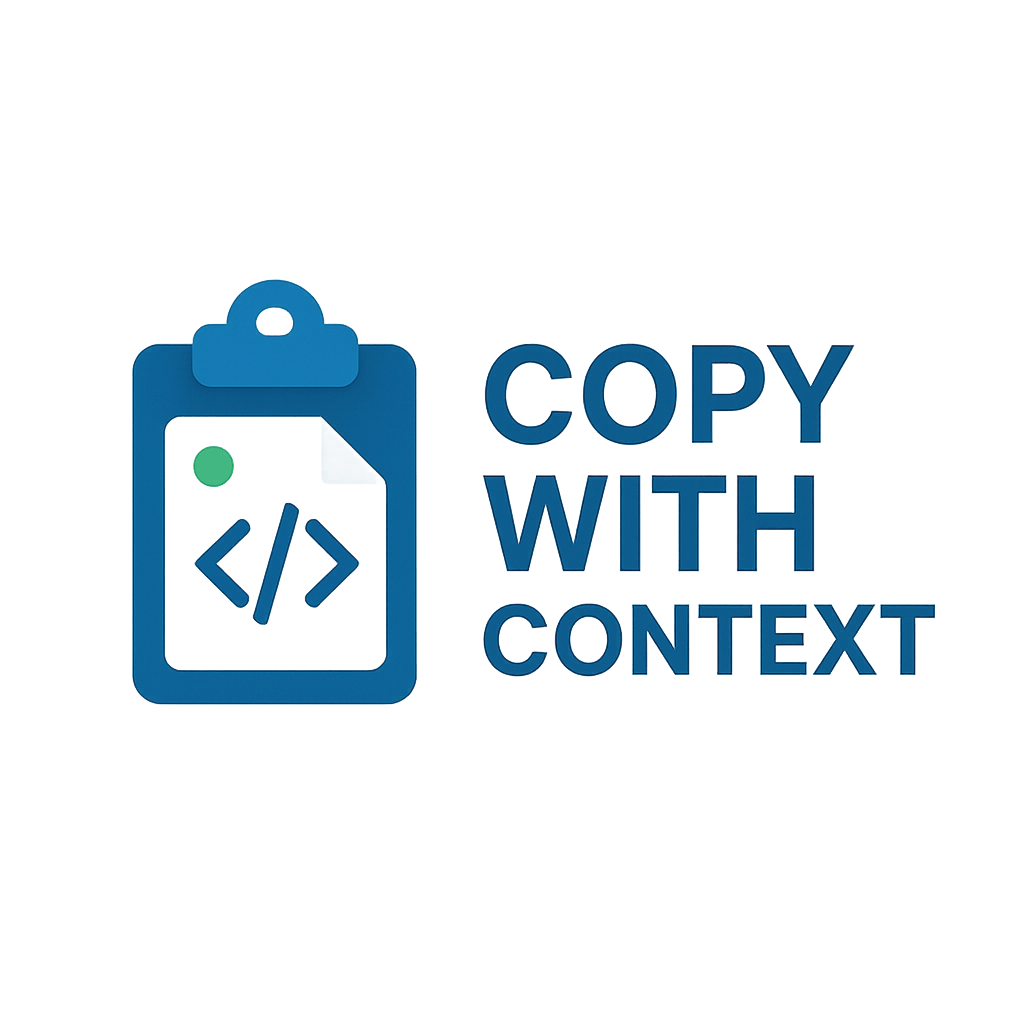
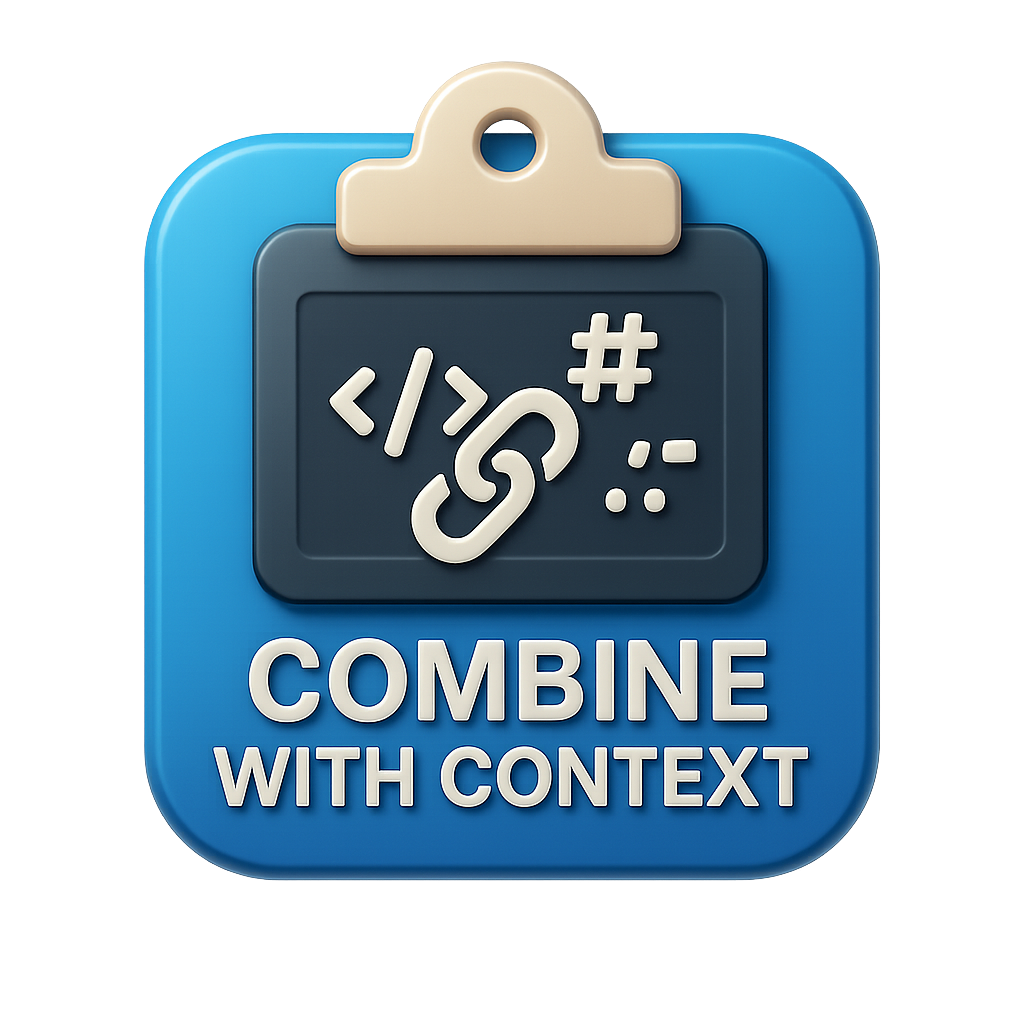
chore: bump version to 2.4.2 and update README for enhanced clarity and interactivity

diff --git a/README.md b/README.md
@@ -1,4 +1,23 @@
-# Combine with Context
+# 🚀 Combine with Context
+
+> A robust, feature-rich way to export code context to a markdown file (`paste.md`) or zip file (`context.zip`) for AI/LLM workflows, with advanced filtering, .gitignore support, history/undo, file tree/analysis, content compression, symlink handling, and full customization.
+
+---
+
+## 📑 Table of Contents
+
+- [✨ Features](#-features)
+- [🛠 Usage](#-usage)
+- [⚙ Configuration (settings)](#-configuration-settings)
+- [⌨ Keybindings](#-keybindings)
+- [🐞 Troubleshooting](#-troubleshooting)
+- [🤝 Contributing](#-contributing)
+- [📜 License](#-license)
+
+---
+
+<details open>
+<summary><h2>✨ Features</h2></summary>
 
 - Instantly copy selected code and context to the clipboard for quick sharing or use.
 - Save selections directly as Markdown files for documentation or collaboration.
@@ -8,13 +27,8 @@
 - Handles large projects efficiently with progress notifications and error handling.
 - Designed for reliability, traceability, and ease of use in production environments.
 
-
-A robust, feature-rich way to export code context to a markdown file (`paste.md`) or zip file `context.zip` (for agent mode) for AI/LLM workflows, with advanced filtering, .gitignore support, history/undo, file tree/analysis, content compression, symlink handling, and full customization.
-
-## Features
-
 - **Multi-select**: Select any files and/or folders in VS Code Explorer.
-- **Re-save/Update last output**: Once you've created a paste file or ZIP archive, you can regenerate it later using the same selection without reselecting files.  A single **Update last output** command determines which format to rebuild based on your most recent save.
+- **Re-save/Update last output**: Once you've created a paste file or ZIP archive, you can regenerate it later using the same selection without reselection files.
 - **LLM-friendly Markdown**: Each file block is clearly marked (with path, code block, timestamp); optional file tree and type-wise analysis.
 - **Smart filtering**: Excludes binary files, images, large/empty files, and recognizes `.gitignore`.
 - **Content compression**: Minifies code (trim whitespace, remove comments for JS/TS, Python, CSS) when enabled.
@@ -26,55 +40,84 @@ A robust, feature-rich way to export code context to a markdown file (`paste.md`
 - **Output channel logging**: For debugging and traceability.
 - **Production-ready**: Handles errors, permissions, and race conditions robustly.
 
-## Usage
+</details>
+
+---
+
+<details open>
+<summary><h2>🛠 Usage</h2></summary>
 
 1. **Select files/folders** in the VS Code Explorer.
-2. **Right‑click** and choose **Save As → Save to paste file** or **Save As → Save selection as ZIP**.  The selected files will be aggregated and saved to your configured Markdown (`paste.md` by default) or ZIP (`context.zip` by default) file.
+2. **Right‑click** and choose **Save As → Save to paste file** or **Save As → Save selection as ZIP**.
 3. The output will appear in the designated file (or your chosen name/folder).
-4. **Undo**: Use the **CC: Undo last save** command to restore the most recent backup of your paste or ZIP file.
+4. **Undo**: Use the **CC: Undo last save** command to restore the most recent backup.
 5. **Clipboard**: Use the **CC: Copy to Clipboard** command/menu to copy the formatted context directly.
-6. **Update**: After you've saved a paste or ZIP once, you can regenerate the output with the latest contents of the same files/folders. Right‑click and choose **CC: Update last output**; the extension will determine which format to regenerate based on your most recent save.
+6. **Update**: After you've saved once, regenerate with **CC: Update last output**.
 
-## Configuration (settings)
+</details>
+
+---
+
+<details open>
+<summary><h2>⚙ Configuration (settings)</h2></summary>
 
 Set these in your workspace or global settings:
 
-| Setting                         | Default                 | Description                                 |
-|----------------------------------|-------------------------|---------------------------------------------|
-| outputFileName                   | "paste.md"              | Name/path for output file                   |
-| appendMode                       | false                   | Append or overwrite                         |
-| includeTimestamp                 | true                    | Add timestamp to each file block            |
-| filteredExtensions               | `.png`, `.exe` etc.     | Array of extensions to skip                 |
-| maxFileSize                      | 5242880 (5MB)           | Per-file max size                           |
-| outputSubfolder                  | "" (root)               | Subfolder for output (optional)             |
-| openAfterSave                    | true                    | Open file after writing                     |
-| separator                        | "\n\n"                  | Markdown separator between file blocks      |
-| useGitignore                     | true                    | Use `.gitignore` for filtering              |
-| historyFolder                    | `.llm-context-history`  | History folder for backups                  |
-| includeFileTree                  | true                    | Include file tree in output                 |
-| includeFileAnalysis              | true                    | Include file count/type analysis            |
-| symlinkHandling                  | "skip"                  | Handle symlinks: "skip" or "resolve"        |
-| compressContent                  | false                   | Minify content and remove comments          |
+| Setting             | Default                | Description                            |
+| ------------------- | ---------------------- | -------------------------------------- |
+| outputFileName      | "paste.md"             | Name/path for output file              |
+| appendMode          | false                  | Append or overwrite                    |
+| includeTimestamp    | true                   | Add timestamp to each file block       |
+| filteredExtensions  | `.png`, `.exe` etc.    | Array of extensions to skip            |
+| maxFileSize         | 5242880 (5MB)          | Per-file max size                      |
+| outputSubfolder     | "" (root)              | Subfolder for output (optional)        |
+| openAfterSave       | true                   | Open file after writing                |
+| separator           | "\n\n"                 | Markdown separator between file blocks |
+| useGitignore        | true                   | Use `.gitignore` for filtering         |
+| historyFolder       | `.llm-context-history` | History folder for backups             |
+| includeFileTree     | true                   | Include file tree in output            |
+| includeFileAnalysis | true                   | Include file count/type analysis       |
+| symlinkHandling     | "skip"                 | Handle symlinks: "skip" or "resolve"   |
+| compressContent     | false                  | Minify content and remove comments     |
 
-## Keybindings
+</details>
+
+---
+
+<details open>
+<summary><h2>⌨ Keybindings</h2></summary>
 
 - Save to paste.md: `Ctrl+Alt+Shift+S`
 - Copy to clipboard: `Ctrl+Alt+Shift+C`
 - Save to context.zip: `Ctrl+Alt+Shift+Z`
 - Undo last save: `Ctrl+Alt+Shift+U`
 
-## Troubleshooting
+</details>
+
+---
+
+<details open>
+<summary><h2>🐞 Troubleshooting</h2></summary>
 
 - If no files appear: Check filteredExtensions, .gitignore, file size limits, or empty files.
 - If output isn't updated: Confirm permissions and path.
-- For debugging: Run the "CC: Show Log" command to see output logs.
+- For debugging: Run the **"CC: Show Log"** command to see output logs.
 
-## Contributing
+</details>
+
+---
+
+<details open>
+<summary><h2>🤝 Contributing</h2></summary>
 
 1. Fork + branch.
 2. Run/test via `F5` in VS Code.
 3. PRs welcome; see file header comments and `outputChannel` logs for tracing/debug.
 
+</details>
+
 ---
 
-MIT License  
+## 📜 License
+
+[MIT License](https://github.com/mohesu/combine-with-context/blob/main/LICENSE.md)

diff --git a/CHANGELOG.md b/CHANGELOG.md
@@ -2,22 +2,36 @@
 
 All notable changes to the "combine-with-context" extension will be documented in this file.
 
+## [2.4.2] - 08-26-2025
+
+### Changed
+
+- **README.md**: Updated the README.md file to be more interactive and scannable.
+- **package.json**: Updated the package.json file to include the new keywords.
+- **CHANGELOG.md**: Updated the CHANGELOG.md file to include the new changes.
+
+## [2.4.1] - 08-26-2025
+
+### Changed
+
+- refactor: update command labels and keybindings for consistency in package.json
+
 ## [2.4.0] - 08-26-2025
 
 ### Changed
 
-- **Submenu for saving outputs**: Added a new **Save As** submenu in the Explorer context menu.  You can now choose **Save to paste file** or **Save selection as ZIP** from a single entry.
-- **Unified update command**: Consolidated the update actions into a single `copyWithContext.updateLast` command (“CC: Update last output”).  This regenerates whichever output (paste or ZIP) you saved most recently.
+- **Submenu for saving outputs**: Added a new **Save As** submenu in the Explorer context menu. You can now choose **Save to paste file** or **Save selection as ZIP** from a single entry.
+- **Unified update command**: Consolidated the update actions into a single `copyWithContext.updateLast` command (“CC: Update last output”). This regenerates whichever output (paste or ZIP) you saved most recently.
 - **Undo improvements**: Undo now restores either the paste file or ZIP archive depending on which one you saved last, rather than only handling Markdown files.
-- **Combine branding**: Renamed all user‑facing messages and the output channel to **Combine with Context** for consistency.  The configuration title in `package.json` was updated accordingly.
+- **Combine branding**: Renamed all user‑facing messages and the output channel to **Combine with Context** for consistency. The configuration title in `package.json` was updated accordingly.
 - **Ignore history folder**: Updated `.vscodeignore` to exclude `.llm-context-history/` and `.llm-context/` in line with the default history folder.
 
 ## [2.3.3] - 08-26-2025
 
 ### Added
 
-- **Save selection as ZIP**: Added ability to package selected files and folders into a ZIP archive (`context.zip` by default).  The command `copyWithContext.saveAsZip` (“CC: Save selection as ZIP”) can be invoked from the context menu or via keybinding.
-- **Update/Resave commands**: Added the ability to regenerate your last paste file or ZIP archive based on the previous selection.  Two commands were introduced:
+- **Save selection as ZIP**: Added ability to package selected files and folders into a ZIP archive (`context.zip` by default). The command `copyWithContext.saveAsZip` (“CC: Save selection as ZIP”) can be invoked from the context menu or via keybinding.
+- **Update/Resave commands**: Added the ability to regenerate your last paste file or ZIP archive based on the previous selection. Two commands were introduced:
   - `copyWithContext.updatePasteFile` (“CC: Update paste file”) regenerates the paste file using the most recent selection and current settings.
   - `copyWithContext.updateZipFile` (“CC: Update zip file”) regenerates the ZIP archive from the previous selection.
 - Selections used by the save/zip commands are recorded for the duration of the session so that update commands can re‑use them.

diff --git a/project-spec.md b/project-spec.md
@@ -1,6 +1,6 @@
-Hello, i am a senior software engineer with an idea for an app, and you are a senior software engineer who will help me build an application. The app is a vscode extension. I have alreayd initialized the project using code yo and eslint as a builder.
+Hello, i am a senior software engineer with an idea for an app, and you are a senior software engineer who will help me build an application. The app is a vscode extension. I have already initialized the project using code yo and eslint as a builder.
 
-Below is a Project Specification for the vscode extension "Context Copy" . You will read and undertand the project specification. Outline the file structure we need using DRY coding principles. and implement every file and piece of code. your output should be the directory structure with filenames, and every code file clearly marked with filenames. we are using typescript.
+Below is a Project Specification for the vscode extension "Context Copy" . You will read and understand the project specification. Outline the file structure we need using DRY coding principles. and implement every file and piece of code. your output should be the directory structure with filenames, and every code file clearly marked with filenames. we are using typescript.
 
 
 Project Specification for software development of the vscode extension "Context Copy" 
@@ -10,7 +10,7 @@ Project Specification for software development of the vscode extension "Context 
 ## Project Specification (Revised)
 
 ### user goals 
-Users want to be able to easily copy one or many files at once onto their cliboard. The text saved onto the cliboard will be in a format that will be easily understood by llms.
+Users want to be able to easily copy one or many files at once onto their clipboard. The text saved onto the clipboard will be in a format that will be easily understood by LLMs.
 
 ### 1. **Project Overview**
 

diff --git a/LICENSE.md b/LICENSE.md
@@ -1,6 +1,6 @@
 MIT License
 
-Copyright (c) [2025] [Copy-Context]
+Copyright (c) [2025] [Combine-with-Context]
 
 Permission is hereby granted, free of charge, to any person obtaining a copy
 of this software and associated documentation files (the "Software"), to deal
